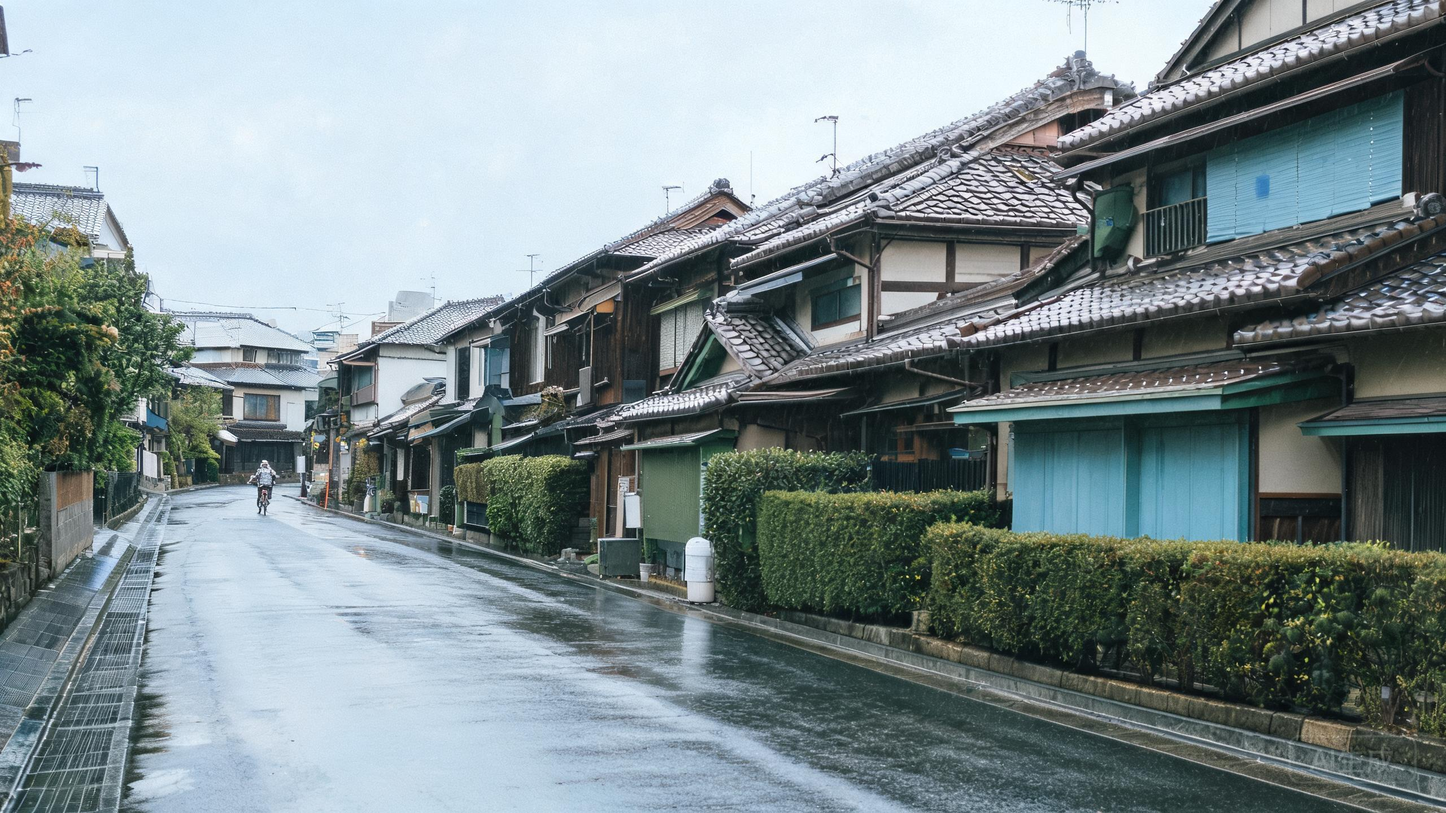
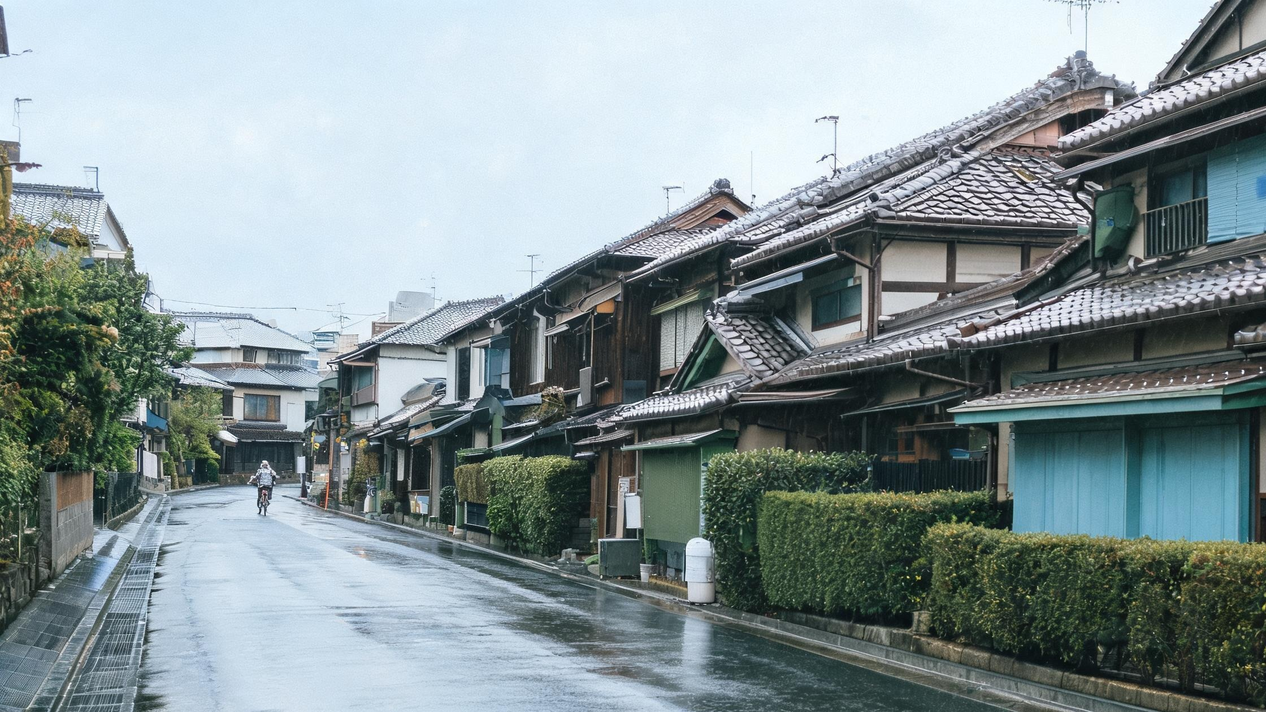
Refine editorial headings and image assets

diff --git a/styles.css b/styles.css
@@ -190,9 +190,11 @@ main { min-height: calc(100vh - 160px); }
 .editorial-section, .notes-preview { padding-top: 120px; }
 .section-heading {
   display: grid;
-  grid-template-columns: 160px 1fr 1fr;
+  grid-template-columns: 1fr auto;
+  grid-template-rows: auto auto;
   align-items: end;
-  gap: 28px;
+  column-gap: 28px;
+  row-gap: 8px;
   padding-bottom: 24px;
   border-bottom: 1px solid var(--line);
 }
@@ -202,8 +204,24 @@ main { min-height: calc(100vh - 160px); }
   font-size: 10px;
   letter-spacing: .18em;
 }
-.section-heading h2 { margin: 0; font: 500 38px/1.1 var(--display); }
-.section-heading > span { justify-self: end; color: var(--muted); }
+.section-heading > p {
+  grid-column: 1;
+  grid-row: 2;
+}
+.section-heading h2 {
+  grid-column: 1;
+  grid-row: 1;
+  margin: 0;
+  font: 500 38px/1.1 var(--display);
+}
+.section-heading > span,
+.section-heading > .text-action {
+  grid-column: 2;
+  grid-row: 1 / span 2;
+  align-self: end;
+  justify-self: end;
+}
+.section-heading > span { color: var(--muted); }
 .story-grid {
   display: grid;
   grid-template-columns: 1.05fr .75fr;
@@ -259,14 +277,24 @@ main { min-height: calc(100vh - 160px); }
 .solid-action { color: var(--white); background: var(--ink); }
 .solid-action:hover, .solid-action:focus-visible { background: var(--sage); border-color: var(--sage); outline: none; }
 .notes-preview { padding-bottom: 32px; }
-.section-heading.compact { grid-template-columns: 160px 1fr auto; }
+.section-heading.compact { grid-template-columns: 1fr auto; }
 .notes-grid, .notes-wall {
   display: grid;
   grid-template-columns: repeat(3, 1fr);
   gap: 42px 22px;
   padding-top: 42px;
 }
-.note-item { display: grid; gap: 14px; border: 0; background: transparent; text-align: left; padding: 0; }
+.note-item {
+  display: grid;
+  grid-template-rows: auto auto auto;
+  align-self: start;
+  align-content: start;
+  gap: 14px;
+  border: 0;
+  background: transparent;
+  text-align: left;
+  padding: 0;
+}
 .note-item img { aspect-ratio: 4 / 3; object-fit: cover; filter: saturate(.78); }
 .note-item:nth-child(2n) img { aspect-ratio: 3 / 4; }
 .note-item time { color: var(--muted); font-size: 10px; letter-spacing: .12em; }
@@ -486,7 +514,7 @@ dialog::backdrop { background: rgba(31,33,30,.72); backdrop-filter: blur(5px); }
   .hero h1 { font-size: 40px; }
   .editorial-section, .notes-preview { padding-top: 72px; }
   .section-heading, .section-heading.compact { grid-template-columns: 1fr auto; gap: 12px; }
-  .section-heading p { grid-column: 1 / -1; }
+  .section-heading p { grid-column: 1; grid-row: 2; }
   .section-heading > span { display: none; }
   .story-grid { grid-template-columns: 1fr; gap: 32px; }
   .story-image.tall, .story-image.wide { height: auto; margin: 0; }
